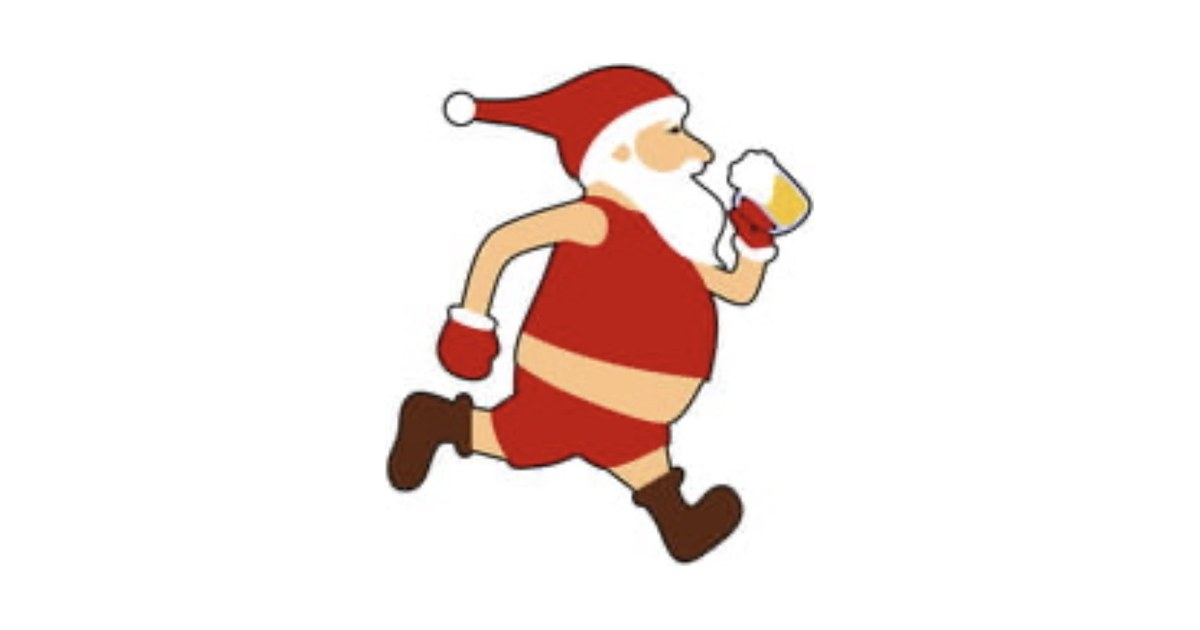
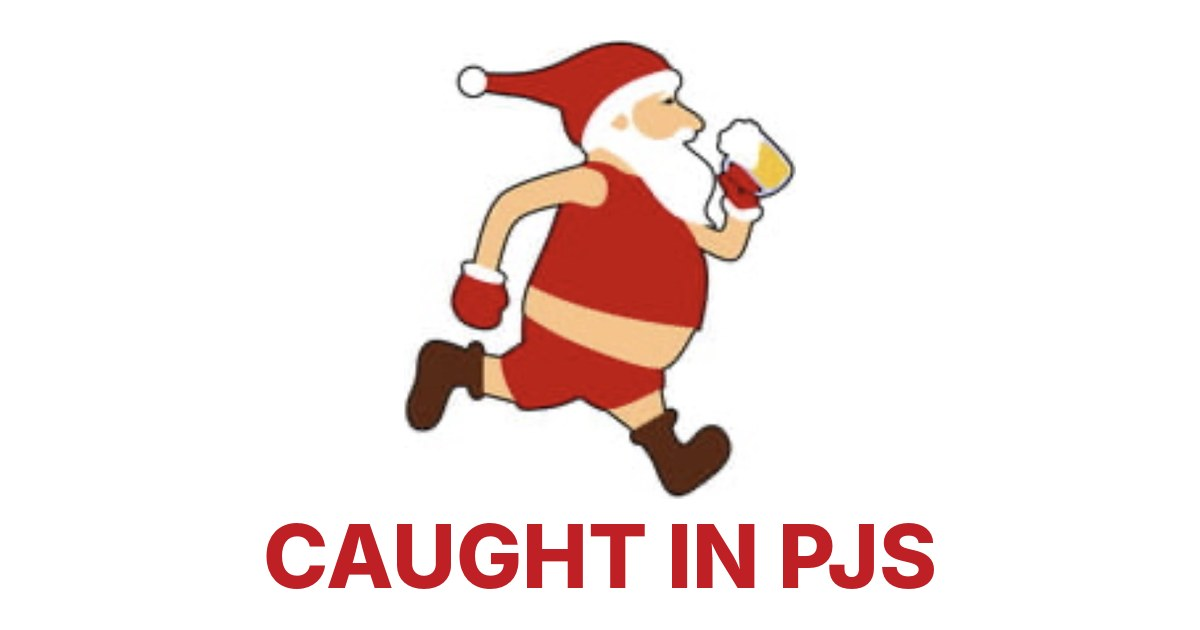
Add CAUGHT IN PJS text to the link preview
Claude-Session: https://claude.ai/code/session_015gMv7WvRgkHgpE3pr6pRJx

Changed region(s): [[0.2158, 0.0603, 0.8017, 0.9349]]

diff --git a/index.html b/index.html
@@ -6,7 +6,7 @@
 <title>Caught in PJs</title>
 <meta name="description" content="Vote on who catches who. Races start at 3p @ Parkside School Field.">
 <meta property="og:type" content="website">
-<meta property="og:title" content="Caught in PJs">
+<meta property="og:title" content="CAUGHT IN PJS">
 <meta property="og:description" content="Vote on who catches who. Races start at 3p @ Parkside School Field.">
 <meta property="og:url" content="https://kristinejoy0419.github.io/Caught/">
 <meta property="og:image" content="https://kristinejoy0419.github.io/Caught/og.jpg">
